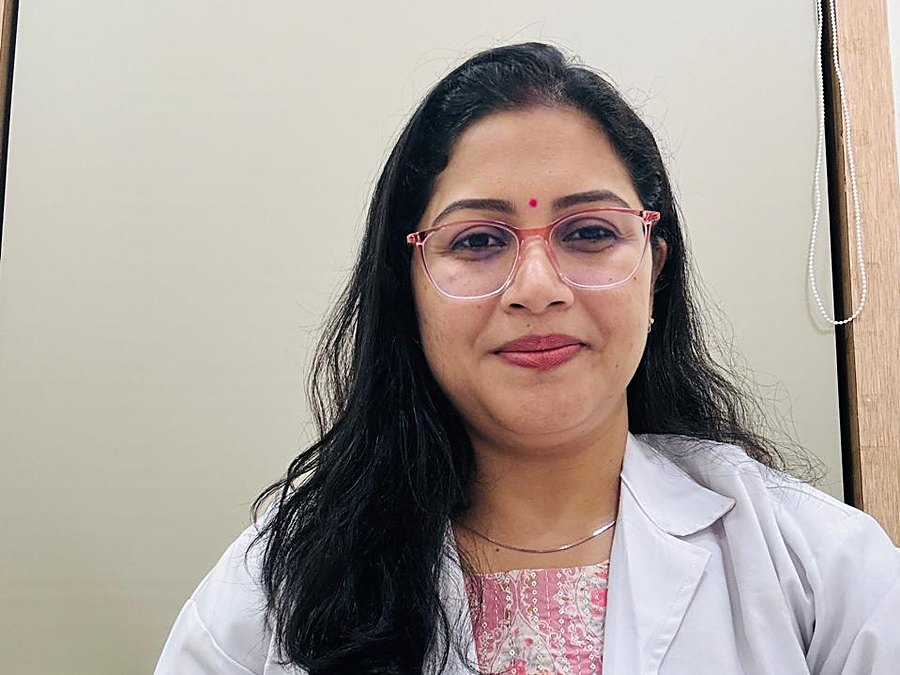
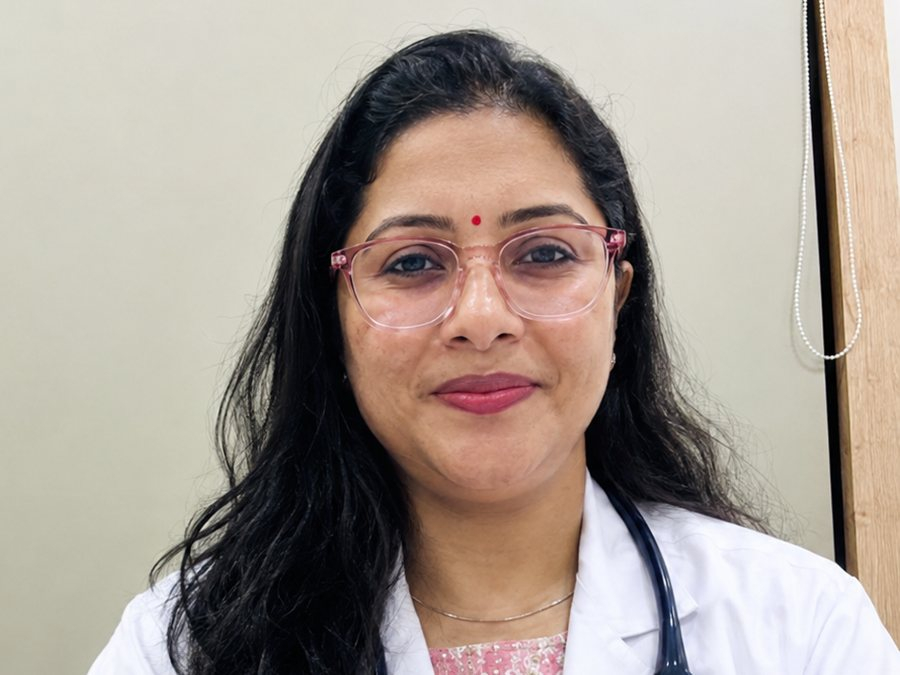
Use the edited doctor portraits, cropped to fit, and a stand-in for the rest
The five edited portraits (white coat, stethoscope) replace the old
photos. Each is cropped from the original twice, so the browser never
has to cut the sides: a square for the home page cards and a 4:3 for
the doctors page, with every face at the same size and the eyes on the
same line. Phones get the 4:3 cut on the home page too, through
<picture>, since that frame turns 3:2 there; both frames now trim from
below (object-position 50% 10%) so heads stay clear.

The six consultants still without a photograph show the new doctor
illustration instead of their initials, on both pages.

diff --git a/index.html b/index.html
@@ -614,9 +614,12 @@
       <article class="dc rv">
         <!-- Portrait supplied. -->
         <div class="dphoto">
-          <img src="Images/doctors/alok-das.jpg" width="900" height="675"
-               alt="Prof. Dr. Alok Das, consultant ENT surgeon at Kamini Clinic &amp; Labs"
-               loading="lazy" decoding="async" onerror="kFall(this,'lab')">
+          <picture>
+            <source media="(max-width:620px)" srcset="Images/doctors/alok-das.jpg" width="900" height="675">
+            <img src="Images/doctors/alok-das-sq.jpg" width="800" height="800"
+                 alt="Prof. Dr. Alok Das, consultant ENT surgeon at Kamini Clinic &amp; Labs"
+                 loading="lazy" decoding="async" onerror="kFall(this,'lab')">
+          </picture>
         </div>
         <div class="dbody">
           <span class="dtag"><svg viewBox="0 0 24 24" aria-hidden="true"><path d="M8 20a3 3 0 0 1-3-3c0-2 1-3 1-6a6 6 0 0 1 12 0c0 4-3 5-4.5 7.5A2.5 2.5 0 0 1 8 20z"/><path d="M9.5 9a2.5 2.5 0 0 1 5 0c0 2-2.5 2-2.5 4"/></svg>ENT</span>
@@ -633,9 +636,12 @@
       <article class="dc rv d1">
         <!-- Portrait supplied. -->
         <div class="dphoto">
-          <img src="Images/doctors/padmalaya-thakur.jpg" width="900" height="675"
-               alt="Prof. Dr. Padmalaya Thakur, gynaecologist and infertility specialist at Kamini Clinic &amp; Labs"
-               loading="lazy" decoding="async" onerror="kFall(this,'lab')">
+          <picture>
+            <source media="(max-width:620px)" srcset="Images/doctors/padmalaya-thakur.jpg" width="900" height="675">
+            <img src="Images/doctors/padmalaya-thakur-sq.jpg" width="800" height="800"
+                 alt="Prof. Dr. Padmalaya Thakur, gynaecologist and infertility specialist at Kamini Clinic &amp; Labs"
+                 loading="lazy" decoding="async" onerror="kFall(this,'lab')">
+          </picture>
         </div>
         <div class="dbody">
           <span class="dtag"><svg viewBox="0 0 24 24" aria-hidden="true"><circle cx="12" cy="9" r="4.5"/><path d="M12 13.5V21M9 18h6"/><path d="M7.5 6.5C5 5 3.5 6 3.5 8M16.5 6.5C19 5 20.5 6 20.5 8"/></svg>Gynaecology</span>
@@ -652,9 +658,12 @@
       <article class="dc rv d2">
         <!-- Portrait supplied. -->
         <div class="dphoto">
-          <img src="Images/doctors/tk-panda.jpg" width="900" height="675"
-               alt="Dr. T. K. Panda, consultant physician and diabetologist at Kamini Clinic &amp; Labs"
-               loading="lazy" decoding="async" onerror="kFall(this,'lab')">
+          <picture>
+            <source media="(max-width:620px)" srcset="Images/doctors/tk-panda.jpg" width="900" height="675">
+            <img src="Images/doctors/tk-panda-sq.jpg" width="800" height="800"
+                 alt="Dr. T. K. Panda, consultant physician and diabetologist at Kamini Clinic &amp; Labs"
+                 loading="lazy" decoding="async" onerror="kFall(this,'lab')">
+          </picture>
         </div>
         <div class="dbody">
           <span class="dtag"><svg viewBox="0 0 24 24" aria-hidden="true"><path d="M3 12h4l3 8 4-16 3 8h4"/></svg>Medicine &amp; Diabetes</span>
@@ -669,11 +678,10 @@
       </article>
 
       <article class="dc rv d3">
-        <!-- Photograph: drop an <img> in as the first child of .dphoto and the
-             monogram steps aside on its own, exactly as on doctors.html. -->
+        <!-- Photograph to follow: the shared illustration stands in until then.
+             Swap the src for the portrait (and add -sq / <picture> as above). -->
         <div class="dphoto">
-          <span class="dpmono" aria-hidden="true">MN</span>
-          <span class="dpnote">Photograph to follow</span>
+          <img src="Images/doctor/doctor-placeholder-square.svg" width="1000" height="1000" alt="" loading="lazy" decoding="async">
         </div>
         <div class="dbody">
           <span class="dtag"><svg viewBox="0 0 24 24" aria-hidden="true"><path d="M12 3c4 4 7 6.5 7 10a7 7 0 0 1-14 0c0-3.5 3-6 7-10z"/><path d="M9 14.5a3 3 0 0 0 3 3"/></svg>Dermatology</span>
@@ -688,11 +696,10 @@
       </article>
 
       <article class="dc rv">
-        <!-- Photograph: drop an <img> in as the first child of .dphoto and the
-             monogram steps aside on its own, exactly as on doctors.html. -->
+        <!-- Photograph to follow: the shared illustration stands in until then.
+             Swap the src for the portrait (and add -sq / <picture> as above). -->
         <div class="dphoto">
-          <span class="dpmono" aria-hidden="true">SS</span>
-          <span class="dpnote">Photograph to follow</span>
+          <img src="Images/doctor/doctor-placeholder-square.svg" width="1000" height="1000" alt="" loading="lazy" decoding="async">
         </div>
         <div class="dbody">
           <span class="dtag"><svg viewBox="0 0 24 24" aria-hidden="true"><path d="M12 3.5c-3 0-4.5 2-4.5 4 0 1-1 1.4-1 3s1 2 1 3.2c0 2.3 2 4.3 4.5 4.3s4.5-2 4.5-4.3c0-1.2 1-1.6 1-3.2s-1-2-1-3c0-2-1.5-4-4.5-4z"/><path d="M12 3.5v14M9 8.5h6M9.5 13h5"/></svg>Neurology</span>
@@ -707,11 +714,10 @@
       </article>
 
       <article class="dc rv d1">
-        <!-- Photograph: drop an <img> in as the first child of .dphoto and the
-             monogram steps aside on its own, exactly as on doctors.html. -->
+        <!-- Photograph to follow: the shared illustration stands in until then.
+             Swap the src for the portrait (and add -sq / <picture> as above). -->
         <div class="dphoto">
-          <span class="dpmono" aria-hidden="true">DM</span>
-          <span class="dpnote">Photograph to follow</span>
+          <img src="Images/doctor/doctor-placeholder-square.svg" width="1000" height="1000" alt="" loading="lazy" decoding="async">
         </div>
         <div class="dbody">
           <span class="dtag"><svg viewBox="0 0 24 24" aria-hidden="true"><circle cx="12" cy="8" r="4"/><path d="M5 21c0-4 3.1-6.5 7-6.5s7 2.5 7 6.5"/><path d="M10 7.5h.01M14 7.5h.01"/></svg>Paediatrics</span>
@@ -726,11 +732,10 @@
       </article>
 
       <article class="dc rv d2">
-        <!-- Photograph: drop an <img> in as the first child of .dphoto and the
-             monogram steps aside on its own, exactly as on doctors.html. -->
+        <!-- Photograph to follow: the shared illustration stands in until then.
+             Swap the src for the portrait (and add -sq / <picture> as above). -->
         <div class="dphoto">
-          <span class="dpmono" aria-hidden="true">AM</span>
-          <span class="dpnote">Photograph to follow</span>
+          <img src="Images/doctor/doctor-placeholder-square.svg" width="1000" height="1000" alt="" loading="lazy" decoding="async">
         </div>
         <div class="dbody">
           <span class="dtag"><svg viewBox="0 0 24 24" aria-hidden="true"><path d="M4 8c3-2 7-2 9 0 2-1.6 5-1.6 7 .4 0 6-4 10-8 11C7 18.6 4 14 4 8z"/><path d="M9 11c1.5 1 3 1.4 4.5 1"/></svg>Hepatology</span>
@@ -747,9 +752,12 @@
       <article class="dc rv d3">
         <!-- Portrait supplied. -->
         <div class="dphoto">
-          <img src="Images/doctors/yera-dhanurdhar.jpg" width="900" height="675"
-               alt="Dr. Yera Dhanurdhar, consultant in pulmonary medicine at Kamini Clinic &amp; Labs"
-               loading="lazy" decoding="async" onerror="kFall(this,'lab')">
+          <picture>
+            <source media="(max-width:620px)" srcset="Images/doctors/yera-dhanurdhar.jpg" width="900" height="675">
+            <img src="Images/doctors/yera-dhanurdhar-sq.jpg" width="800" height="800"
+                 alt="Dr. Yera Dhanurdhar, consultant in pulmonary medicine at Kamini Clinic &amp; Labs"
+                 loading="lazy" decoding="async" onerror="kFall(this,'lab')">
+          </picture>
         </div>
         <div class="dbody">
           <span class="dtag"><svg viewBox="0 0 24 24" aria-hidden="true"><path d="M12 3v8"/><path d="M9.5 7.5C7 7.5 5 9.5 5 13c0 3 .5 5.5 1.5 6.5S9 20 9.5 18.5c.4-1.2.5-3 .5-5.5V7.5z"/><path d="M14.5 7.5c2.5 0 4.5 2 4.5 5.5 0 3-.5 5.5-1.5 6.5S15 20 14.5 18.5c-.4-1.2-.5-3-.5-5.5V7.5z"/></svg>Pulmonology</span>
@@ -764,11 +772,10 @@
       </article>
 
       <article class="dc rv">
-        <!-- Photograph: drop an <img> in as the first child of .dphoto and the
-             monogram steps aside on its own, exactly as on doctors.html. -->
+        <!-- Photograph to follow: the shared illustration stands in until then.
+             Swap the src for the portrait (and add -sq / <picture> as above). -->
         <div class="dphoto">
-          <span class="dpmono" aria-hidden="true">PM</span>
-          <span class="dpnote">Photograph to follow</span>
+          <img src="Images/doctor/doctor-placeholder-square.svg" width="1000" height="1000" alt="" loading="lazy" decoding="async">
         </div>
         <div class="dbody">
           <span class="dtag"><svg viewBox="0 0 24 24" aria-hidden="true"><path d="M7 4.5a2.2 2.2 0 0 0-3 3L16.5 20a2.2 2.2 0 0 0 3-3z"/><path d="M5.5 3a2 2 0 1 0-2 2M20.5 21a2 2 0 1 0 2-2"/></svg>Orthopaedics</span>
@@ -785,9 +792,12 @@
       <article class="dc rv d1">
         <!-- Portrait supplied. -->
         <div class="dphoto">
-          <img src="Images/doctors/suyash-bajoria.jpg" width="900" height="675"
-               alt="Dr. Suyash Bajoria, consultant urologist at Kamini Clinic &amp; Labs"
-               loading="lazy" decoding="async" onerror="kFall(this,'lab')">
+          <picture>
+            <source media="(max-width:620px)" srcset="Images/doctors/suyash-bajoria.jpg" width="900" height="675">
+            <img src="Images/doctors/suyash-bajoria-sq.jpg" width="800" height="800"
+                 alt="Dr. Suyash Bajoria, consultant urologist at Kamini Clinic &amp; Labs"
+                 loading="lazy" decoding="async" onerror="kFall(this,'lab')">
+          </picture>
         </div>
         <div class="dbody">
           <span class="dtag"><svg viewBox="0 0 24 24" aria-hidden="true"><path d="M12 3s6 5.5 6 10a6 6 0 0 1-12 0c0-4.5 6-10 6-10z"/><path d="M9.5 14a2.5 2.5 0 0 0 2.5 2.5"/></svg>Urology</span>
@@ -799,11 +809,10 @@
       </article>
 
       <article class="dc rv d2">
-        <!-- Photograph: drop an <img> in as the first child of .dphoto and the
-             monogram steps aside on its own, exactly as on doctors.html. -->
+        <!-- Photograph to follow: the shared illustration stands in until then.
+             Swap the src for the portrait (and add -sq / <picture> as above). -->
         <div class="dphoto">
-          <span class="dpmono" aria-hidden="true">UC</span>
-          <span class="dpnote">Photograph to follow</span>
+          <img src="Images/doctor/doctor-placeholder-square.svg" width="1000" height="1000" alt="" loading="lazy" decoding="async">
         </div>
         <div class="dbody">
           <span class="dtag"><svg viewBox="0 0 24 24" aria-hidden="true"><path d="M12 3l7 3v6c0 4.4-3 7.9-7 9-4-1.1-7-4.6-7-9V6z"/><path d="M12 9v6M9 12h6"/></svg>General Medicine</span>

diff --git a/doctors.html b/doctors.html
@@ -289,11 +289,10 @@
       <!-- 4 — Dermatology -->
       <article class="dr-card rv d3" data-spec="derm" data-name="Dr. Manoj Kumar Nayak" data-qual="MD (Skin &amp; VD)" data-mono="MN"
                data-sessions='[{"d": [1, 4, 6], "s": 1170, "e": 1230, "t": "7.30 – 8.30 PM"}]'>
-        <!-- Photograph: drop an <img> in as the first child of .dr-photo and the
-             monogram steps aside on its own. Nothing else needs touching. -->
+        <!-- Photograph to follow: the shared illustration stands in until then.
+             Swap the src for the portrait. -->
         <div class="dr-photo">
-          <span class="dr-pmono" aria-hidden="true">MN</span>
-          <span class="dr-pnote">Photograph to follow</span>
+          <img src="Images/doctor/doctor-placeholder-square.svg" width="1000" height="1000" alt="" loading="lazy" decoding="async">
         </div>
         <div class="dr-cbody">
           <div class="dr-chead">
@@ -323,11 +322,10 @@
       <!-- 5 — Neurology -->
       <article class="dr-card rv" data-spec="neuro" data-name="Dr. Sachidananda Swain" data-qual="MD, DM (Neuro Medicine)" data-mono="SS"
                data-sessions='[{"d": [1, 3, 5], "s": 1080, "e": 1170, "t": "6.00 – 7.30 PM"}]'>
-        <!-- Photograph: drop an <img> in as the first child of .dr-photo and the
-             monogram steps aside on its own. Nothing else needs touching. -->
+        <!-- Photograph to follow: the shared illustration stands in until then.
+             Swap the src for the portrait. -->
         <div class="dr-photo">
-          <span class="dr-pmono" aria-hidden="true">SS</span>
-          <span class="dr-pnote">Photograph to follow</span>
+          <img src="Images/doctor/doctor-placeholder-square.svg" width="1000" height="1000" alt="" loading="lazy" decoding="async">
         </div>
         <div class="dr-cbody">
           <div class="dr-chead">
@@ -357,11 +355,10 @@
       <!-- 6 — Paediatrics -->
       <article class="dr-card rv d1" data-spec="paeds" data-name="Dr. S. Das Mohapatra" data-qual="MD (Paediatrics)" data-mono="DM"
                data-sessions='[{"d": [2, 4], "s": 1110, "e": 1230, "t": "6.30 – 8.30 PM"}, {"d": [0], "s": 600, "e": 660, "t": "10.00 – 11.00 AM"}]'>
-        <!-- Photograph: drop an <img> in as the first child of .dr-photo and the
-             monogram steps aside on its own. Nothing else needs touching. -->
+        <!-- Photograph to follow: the shared illustration stands in until then.
+             Swap the src for the portrait. -->
         <div class="dr-photo">
-          <span class="dr-pmono" aria-hidden="true">DM</span>
-          <span class="dr-pnote">Photograph to follow</span>
+          <img src="Images/doctor/doctor-placeholder-square.svg" width="1000" height="1000" alt="" loading="lazy" decoding="async">
         </div>
         <div class="dr-cbody">
           <div class="dr-chead">
@@ -391,11 +388,10 @@
       <!-- 7 — Hepatology & Gastroenterology -->
       <article class="dr-card rv d2" data-spec="hepato" data-name="Dr. Arupam Mahapatra" data-qual="MD, DM (Hepatology)" data-mono="AM"
                data-sessions='[{"d": [2, 4, 6], "s": 1080, "e": 1140, "t": "6.00 – 7.00 PM"}]'>
-        <!-- Photograph: drop an <img> in as the first child of .dr-photo and the
-             monogram steps aside on its own. Nothing else needs touching. -->
+        <!-- Photograph to follow: the shared illustration stands in until then.
+             Swap the src for the portrait. -->
         <div class="dr-photo">
-          <span class="dr-pmono" aria-hidden="true">AM</span>
-          <span class="dr-pnote">Photograph to follow</span>
+          <img src="Images/doctor/doctor-placeholder-square.svg" width="1000" height="1000" alt="" loading="lazy" decoding="async">
         </div>
         <div class="dr-cbody">
           <div class="dr-chead">
@@ -459,11 +455,10 @@
       <!-- 9 — Orthopaedics -->
       <article class="dr-card rv" data-spec="ortho" data-name="Dr. Pratik Mohapatra" data-qual="MD (Orthopaedics)" data-mono="PM"
                data-sessions='[{"d": [0, 1, 2, 3, 4, 5, 6], "s": 480, "e": 540, "t": "8.00 – 9.00 AM"}, {"d": [0, 1, 2, 3, 4, 5, 6], "s": 1110, "e": 1200, "t": "6.30 – 8.00 PM"}]'>
-        <!-- Photograph: drop an <img> in as the first child of .dr-photo and the
-             monogram steps aside on its own. Nothing else needs touching. -->
+        <!-- Photograph to follow: the shared illustration stands in until then.
+             Swap the src for the portrait. -->
         <div class="dr-photo">
-          <span class="dr-pmono" aria-hidden="true">PM</span>
-          <span class="dr-pnote">Photograph to follow</span>
+          <img src="Images/doctor/doctor-placeholder-square.svg" width="1000" height="1000" alt="" loading="lazy" decoding="async">
         </div>
         <div class="dr-cbody">
           <div class="dr-chead">
@@ -524,11 +519,10 @@
       <!-- 11 — General Medicine -->
       <article class="dr-card rv d2" data-spec="general" data-name="Dr. Umesh Chaudhury" data-qual="MBBS" data-mono="UC"
                data-sessions='[]'>
-        <!-- Photograph: drop an <img> in as the first child of .dr-photo and the
-             monogram steps aside on its own. Nothing else needs touching. -->
+        <!-- Photograph to follow: the shared illustration stands in until then.
+             Swap the src for the portrait. -->
         <div class="dr-photo">
-          <span class="dr-pmono" aria-hidden="true">UC</span>
-          <span class="dr-pnote">Photograph to follow</span>
+          <img src="Images/doctor/doctor-placeholder-square.svg" width="1000" height="1000" alt="" loading="lazy" decoding="async">
         </div>
         <div class="dr-cbody">
           <div class="dr-chead">

diff --git a/assets/css/style.css b/assets/css/style.css
@@ -1048,7 +1048,11 @@ footer .brand{margin-bottom:18px}
 .dphoto>*{position:relative;z-index:2}
 /* z-index above the monogram, so a photograph hides the placeholder on its own
    even where :has() below is unsupported */
-.dphoto img{position:absolute;inset:0;width:100%;height:100%;object-fit:cover;object-position:50% 20%;
+/* the portraits are cropped to this frame already (a square, plus a 4:3 cut
+   served through <picture> once the frame turns 3:2 on phones), so the browser
+   only ever trims a sliver — taken mostly from below, to keep the head clear */
+.dphoto picture{display:contents}
+.dphoto img{position:absolute;inset:0;width:100%;height:100%;object-fit:cover;object-position:50% 10%;
   z-index:4;transition:transform .6s var(--ease)}
 .dc:hover .dphoto img{transform:scale(1.04)}
 /* the monogram sits in a disc ringed in paper, the way a portrait is mounted */

diff --git a/assets/css/doctors.css b/assets/css/doctors.css
@@ -182,7 +182,9 @@
   border-bottom:1px solid var(--teal-100)}
 /* z-index above the monogram, so the photograph hides the placeholder on its
    own even where :has() below is not supported. */
-.dr-photo img{position:absolute;inset:0;width:100%;height:100%;object-fit:cover;object-position:50% 22%;
+/* the portraits are cropped to 4:3 already; when the frame turns 3:2 on phones
+   the sliver that goes is taken mostly from below, to keep the head clear */
+.dr-photo img{position:absolute;inset:0;width:100%;height:100%;object-fit:cover;object-position:50% 10%;
   z-index:4;transition:transform .6s var(--ease)}
 .dr-card:hover .dr-photo img{transform:scale(1.035)}
 /* a whisper of the caduceus ruling from the pads, so the empty state is not a flat block */
